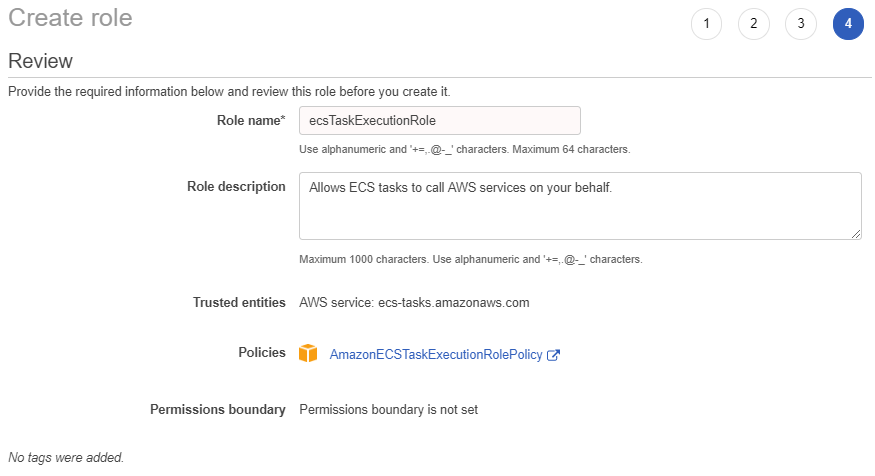
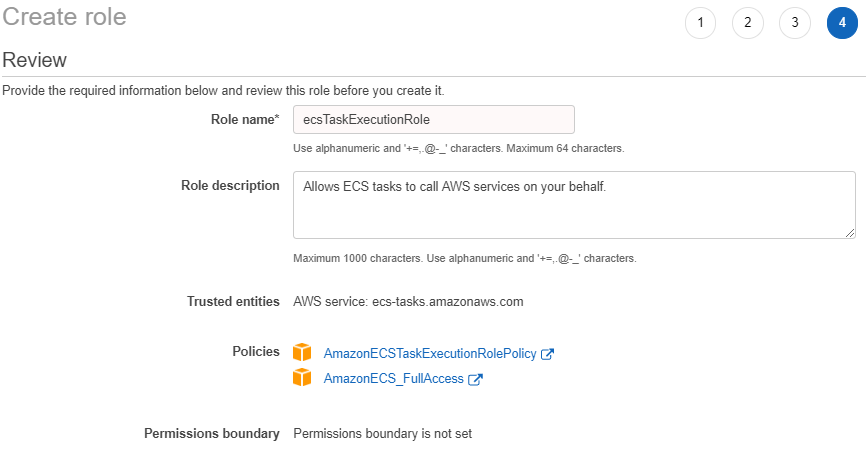
finishing ecs blog; making blog landing page; moving batman code; adding blog to nav

diff --git a/pages/blog/github-actions-aws-ecs.js b/pages/blog/github-actions-aws-ecs.js
@@ -8,16 +8,16 @@ export default function Post() {
   const router = useRouter();
 
   return (
-    <Layout page="blog" title="&lt;Adrian Pardo/&gt; CI/CD Github Actions to AWS ECR/ECS">
+    <Layout page="blog/github-actions-aws-ecs" title="&lt;Adrian Pardo/&gt; CI/CD Github Actions to AWS ECR/ECS" description="Step by step guide for automating deplyoment from Github Actions to AWS ECR and ECS" ogImage="/assets/images/github-actions-aws-ecs/ecs.png">
       <div className="lead">
         <div id="lead-content">
           <h1>CI/CD GITHUB ACTIONS TO AWS ECR/ECS</h1>
-          <h2>Feb 21, 2020</h2>
+          <h2>Feb 24, 2020 • Guide</h2>
         </div>
         <SeeMore href="#before-getting-started" />
         <div id="lead-overlay"></div>
       </div>
-      <div className="info-container-2" id="before-getting-started">
+      <div className="info-container-2 text-center" id="before-getting-started">
         <div className="container">
           <h2 className="heading" tabIndex="0">Objectives</h2>
           <div className="info">
@@ -28,7 +28,7 @@ export default function Post() {
                 Before getting started, make sure you have an AWS account and have Git, Node and Docker installed.
             </p>
             <p>
-              We will start by forking this simple full stack <a href="https://github.com/apardo04/github-actions-to-aws-ecr-ecs">React/Express application</a>. Once forked into your account, make a clone.
+              We will start by forking this simple full stack <a href="https://github.com/apardo04/github-actions-to-aws-ecr-ecs">React/Express application</a>. Once forked into your Github account, make a clone on your local machine.
             </p>
             <p>
               For local development I am using a <a href="https://docs.docker.com/compose/">docker-compose</a> enivornment. 
@@ -41,7 +41,7 @@ export default function Post() {
 
             <h2 className="heading" tabIndex="0" id="docker-compose">Docker Compose</h2>
             <p>
-                To get the local docker-compose environment running, there are a few steps to take
+                To get the local docker-compose environment running, there are a few steps to take.
             </p>
             <p>
                 1) Build the front end client, by running the following commands.
@@ -84,10 +84,13 @@ export default function Post() {
                 4) Click the "Attach existing policies directly" option.
             </p>
             <p>
-                5) Search for "ECS" and check the policies shown below.
+                5) Search for "ECS", check the following policies, search for "registry" and select the following policy.
             </p>
             <p>
                 <img src="../../assets/images/github-actions-aws-ecs/iam-user-ecr-ecs-permissions.png" className="yellow-border" />
+            </p>
+            <p>
+                <img src="../../assets/images/github-actions-aws-ecs/iam-user-ecr-ecs-permissions-3.png" className="yellow-border" />
             </p>
             <p>
                 6) Click the "Next: Tags" button.
@@ -106,7 +109,7 @@ export default function Post() {
             </p>
             <h2 className="heading" tabIndex="0" id="iam-role">Identity and Access Management (IAM) Role</h2>
             <p>
-                Now we need to create an IAM Role for......
+                Now we need to create an IAM Role. This will provide access to other AWS service resources that are required to run Amazon ECS tasks.
             </p>
             <p>
               1) Navigate back to <a href="https://console.aws.amazon.com/iam">AWS IAM</a> and click on "Roles" and then click the "Create role" button.
@@ -121,7 +124,7 @@ export default function Post() {
               3) Click "Next: Permissions" button.
             </p>
             <p>
-              4) Search "ecs" and select the policy shown below.
+              4) Search "ecs" and select the policies shown below.
             </p>
             <p>
                 <img src="../../assets/images/github-actions-aws-ecs/iam-role-policy.png" className="yellow-border" />
@@ -133,18 +136,10 @@ export default function Post() {
               6) Click the "Next: Review" button.
             </p>
             <p>
-              7) We're going to give our role the name "ecsTaskExecutionRole"
+              7) We're going to give our role the name "ecsTaskExecutionRole".
             </p>
             <p>
                 <img src="../../assets/images/github-actions-aws-ecs/iam-role-name.png" className="yellow-border" />
-            </p>
-
-            <h2 className="heading" tabIndex="0" id="iam-policy">Identity and Access Management (IAM) Policy</h2>
-            <p>
-                <img src="../../assets/images/github-actions-aws-ecs/iam-policy-registry-full-access.png" className="yellow-border" />
-            </p>
-            <p>
-                <img src="../../assets/images/github-actions-aws-ecs/iam-policy-registry-full-access-2.png" className="yellow-border" />
             </p>
 
             <h2 className="heading" tabIndex="0" id="ecr">Elastic Container Registry (ECR)</h2>
@@ -177,14 +172,13 @@ export default function Post() {
               2) Under "Container definition" select the "custom" image option and hit the "edit" button, as shown below.
             </p>
             <p>
-                <img src="../../assets/images/github-actions-aws-ecs/ecs-custom-image.png" className="yellow-border" />
+                <img src="../../assets/images/github-actions-aws-ecs/ecs-container-definition.png" className="yellow-border" />
             </p>
             <p>
               3) We're going to name the container "my-container", set image to "my-ecr-repo" and map port 80 to tcp.
             </p>
-            <p>
-                <img src="../../assets/images/github-actions-aws-ecs/ecs-container-settings.png" className="yellow-border" />
-            </p>
+            <img src="../../assets/images/github-actions-aws-ecs/ecs-container-settings.png" className="yellow-border" />
+
             <p>
               4) Click the "Update" button.
             </p>
@@ -201,7 +195,7 @@ export default function Post() {
               7) Click the "Save" button and the side panel should disappear.
             </p>
             <p>
-              8) Click "Next" button.
+              8) Click the "Next" button.
             </p>
             <p>
               9) By default "Service name" should be "my-container-service". If not, change it to that and click the "Next" button.
@@ -524,14 +518,12 @@ export default function Post() {
 
 
             <h2 className="heading" tabIndex="0" id="application-running">See The Application Running</h2>
-            <p>
-              If you got no errors, then lets go back to our <a href="https://console.aws.amazon.com/ecs/">AWS ECS Console</a>.<br />
-              Click on "my-cluster"<br />
-              Click on "my-container-service"<br />
-              Click the "Tasks" tab<br />
-              Click on the task it self that has a status "RUNNING"<br />
-              Look in the "Network" section for a "Public IP", copy and paste that IP into your web browser and you should see the application running and talking to the database (meaning you're recieving fortunes), like below:
-            </p>
+            <p>If you got no errors, then lets go back to our <a href="https://console.aws.amazon.com/ecs/">AWS ECS Console</a>.</p>
+            <p>Click on "my-cluster"</p>
+            <p>Click on "my-container-service"</p>
+            <p>Click the "Tasks" tab</p>
+            <p>Click on the task it self that has a status "RUNNING"</p>
+            <p>Look in the "Network" section for a "Public IP", copy and paste that IP into your web browser and you should see the application running and talking to the database (meaning you're recieving fortunes), like below:</p>
             <p>
               <img src="../../assets/images/github-actions-aws-ecs/application-running.png" className="yellow-border" />
             </p>
@@ -542,8 +534,11 @@ export default function Post() {
       </div>
       <style jsx>{`
         .lead {
-            background: url("../../assets/images/ecs.png");
+            background: url("../../assets/images/github-actions-aws-ecs/ecs.png");
             background-size: contain;
+        }
+        #lead-overlay {
+          background: rgba(32, 46, 64, 0.65);
         }
         p {
           margin-bottom: 50px;

diff --git a/pages/blog.js b/pages/blog.js
@@ -1,66 +1,38 @@
 import Layout from '../components/Layout'
-import Link from 'next/link'
-import fetch from 'isomorphic-unfetch'
 import '../public/assets/css/bootstrap.min.css'
 import '../public/assets/css/styles.css'
 
-const PostLink = props => (
-    <li>
-        <Link href="/p/[id]" as={`/p/${props.id}`}>
-            <a>{props.id}</a>
-        </Link>
-    </li>
-)
-
 const Blog = props => ( 
-    <Layout page="blog" title="Blog &lt;Adrian Pardo/&gt; Freelance Fullstack Web Developer">
-        
-        { true ? 
-            <React.Fragment>
-                <div className="lead">
-                    <div id="lead-content">
-                        <h1>Blog Coming Soon</h1>
-                    </div>
-                    <div id="lead-overlay"></div>
+    <Layout page="blog" title="Blog &lt;Adrian Pardo/&gt; Freelance Fullstack Web Developer"> 
+        <div className="info-container-2 text-center" id="blog">
+            <div className="container">
+                <h2 className="heading" tabIndex="0">Blog</h2>
+                <div className="info text-left">
+                    <h3 className=""><a href="blog/github-actions-aws-ecs">CI/CD Github Actions to AWS ECR/ECS</a></h3>
+                    <div className="small-text">February 24, 2020 • Guide</div>
+                    <p>
+                        
+                    </p>
                 </div>
-            </React.Fragment> 
-        : 
-            <React.Fragment>
-                <div className="lead">
-                    <div id="lead-content">
-                        <h1>Batman TV Shows</h1>
-                        <ul>
-                            {props.shows.map(show => (
-                                <li key={show.id}>
-                                    <Link href="/batman/[id]" as={`/batman/${show.id}`}>
-                                        <a>{show.name}</a>
-                                    </Link>
-                                </li>
-                            ))}
-                        </ul>
-                        <h1>Blogs</h1>
-                        <ul>
-                            <PostLink id="hello-nextjs" title="Hello Next.js" />
-                            <PostLink id="learn-nextjs" title="Learn Next.js is awesome" />
-                            <PostLink id="deploy-nextjs" title="Deploy apps with Zeit" />
-                        </ul>
-                    </div>
-                    <div id="lead-overlay"></div>
-                </div>
-            </React.Fragment>
-        }
+            </div>
+        </div>
+        <style jsx>{`
+            .container {
+                padding: 75px 15px;
+            }
+            h3 {
+                font-family: Montserrat, sans-serif;
+                font-size: 30px;
+                margin-bottom: 0.4375rem;
+                font-weight: 900;
+                color: var(--yellow);
+            }
+            .small-text {
+                color: white;
+                font-size: 19px;
+            }
+        `}</style>
     </Layout>
 )
 
-Blog.getInitialProps = async function() {
-    const res = await fetch('https://api.tvmaze.com/search/shows?q=batman')
-    const data = await res.json()
-  
-    console.log(`Show data fetched. Count: ${data.length}`)
-  
-    return {
-      shows: data.map(entry => entry.show)
-    }
-  }
-
-  export default Blog
+export default Blog

diff --git a/pages/batman.js b/pages/batman.js
@@ -1,0 +1,54 @@
+import Layout from '../components/Layout'
+import Link from 'next/link'
+import fetch from 'isomorphic-unfetch'
+import '../public/assets/css/bootstrap.min.css'
+import '../public/assets/css/styles.css'
+
+const PostLink = props => (
+    <li>
+        <Link href="/p/[id]" as={`/p/${props.id}`}>
+            <a>{props.id}</a>
+        </Link>
+    </li>
+)
+
+const Blog = props => ( 
+    <Layout page="batman" title=""> 
+            <React.Fragment>
+                <div className="lead">
+                    <div id="lead-content">
+                        <h1>Batman TV Shows</h1>
+                        <ul>
+                            {props.shows.map(show => (
+                                <li key={show.id}>
+                                    <Link href="/batman/[id]" as={`/batman/${show.id}`}>
+                                        <a>{show.name}</a>
+                                    </Link>
+                                </li>
+                            ))}
+                        </ul>
+                        <h1>Blogs</h1>
+                        <ul>
+                            <PostLink id="hello-nextjs" title="Hello Next.js" />
+                            <PostLink id="learn-nextjs" title="Learn Next.js is awesome" />
+                            <PostLink id="deploy-nextjs" title="Deploy apps with Zeit" />
+                        </ul>
+                    </div>
+                    <div id="lead-overlay"></div>
+                </div>
+            </React.Fragment>
+    </Layout>
+)
+
+Blog.getInitialProps = async function() {
+    const res = await fetch('https://api.tvmaze.com/search/shows?q=batman')
+    const data = await res.json()
+  
+    console.log(`Show data fetched. Count: ${data.length}`)
+  
+    return {
+      shows: data.map(entry => entry.show)
+    }
+  }
+
+  export default Blog

diff --git a/components/Nav.js b/components/Nav.js
@@ -16,15 +16,16 @@ const Nav = props => {
           </div>
           <ul id="menu">
               <li>
-              {props.page == "index" ?
-                <Link href="/index#about">
-                  <a tabIndex="0" className="hover-border prevent-default">About</a>
-                </Link>
-              :     
+              {props.page != "index" &&
                 <Link href="/index">
                   <a tabIndex="0" className="hover-border prevent-default">Home</a>
                 </Link>
               }
+              </li>
+              <li>
+                  <Link href="/blog">
+                    <a tabIndex="0" className="hover-border">Blog</a>
+                  </Link>
               </li>
               <li>
                 <Link href="/index#projects">
@@ -36,6 +37,7 @@ const Nav = props => {
                     <a target="_blank" tabIndex="0" className="hover-border prevent-default">Github</a>
                   </Link>
               </li>
+
               <li>
                   <Link href="/hire-me">
                     <a tabIndex="0" className="hover-border">Need a Developer?</a>

diff --git a/public/assets/css/styles.css b/public/assets/css/styles.css
@@ -107,6 +107,12 @@ ul.small {
 .padding-top {
     padding-top:75px;
 }
+.text-left {
+    text-align: left;
+}
+.text-center {
+    text-align: center;
+}
 .underline-yellow {
     color: var(--yellow);
     border-bottom: 1px solid var(--yellow);
@@ -226,7 +232,6 @@ a.lead-download-btn:hover #lead-arrow {
 }
 .info-container-2 {
     padding: 50px 15px;
-    text-align: center;
     border-top: 1px solid var(--yellow);
     border-bottom: 1px solid var(--yellow);
 }

diff --git a/components/Layout.js b/components/Layout.js
@@ -15,7 +15,7 @@ const Layout = props => {
       });
     return (
         <React.Fragment>
-            <Head page={props.page} title={props.title} description={props.description} />
+            <Head page={props.page} title={props.title} description={props.description} ogImage={"https://adrianpardo.dev"+props.ogImage} />
             <Nav page={props.page} />
             {props.children}
             <Footer />
